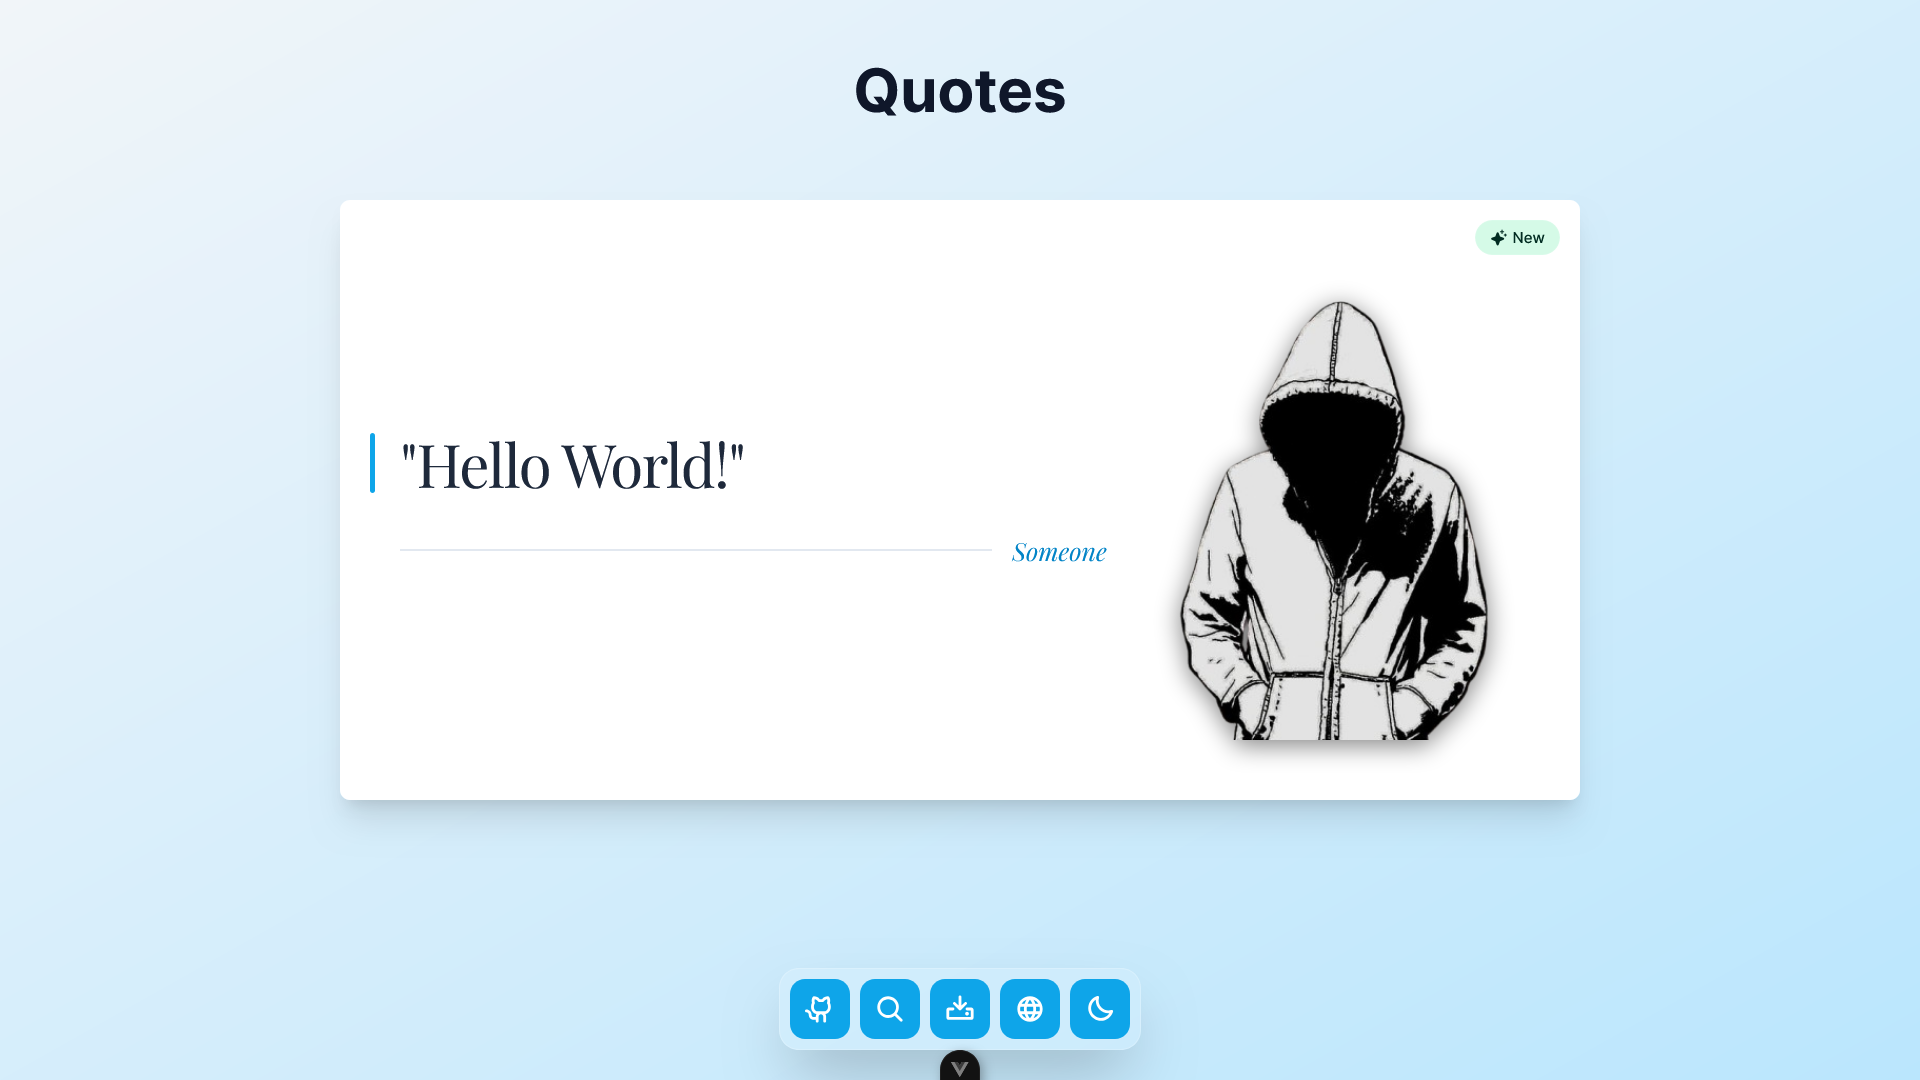
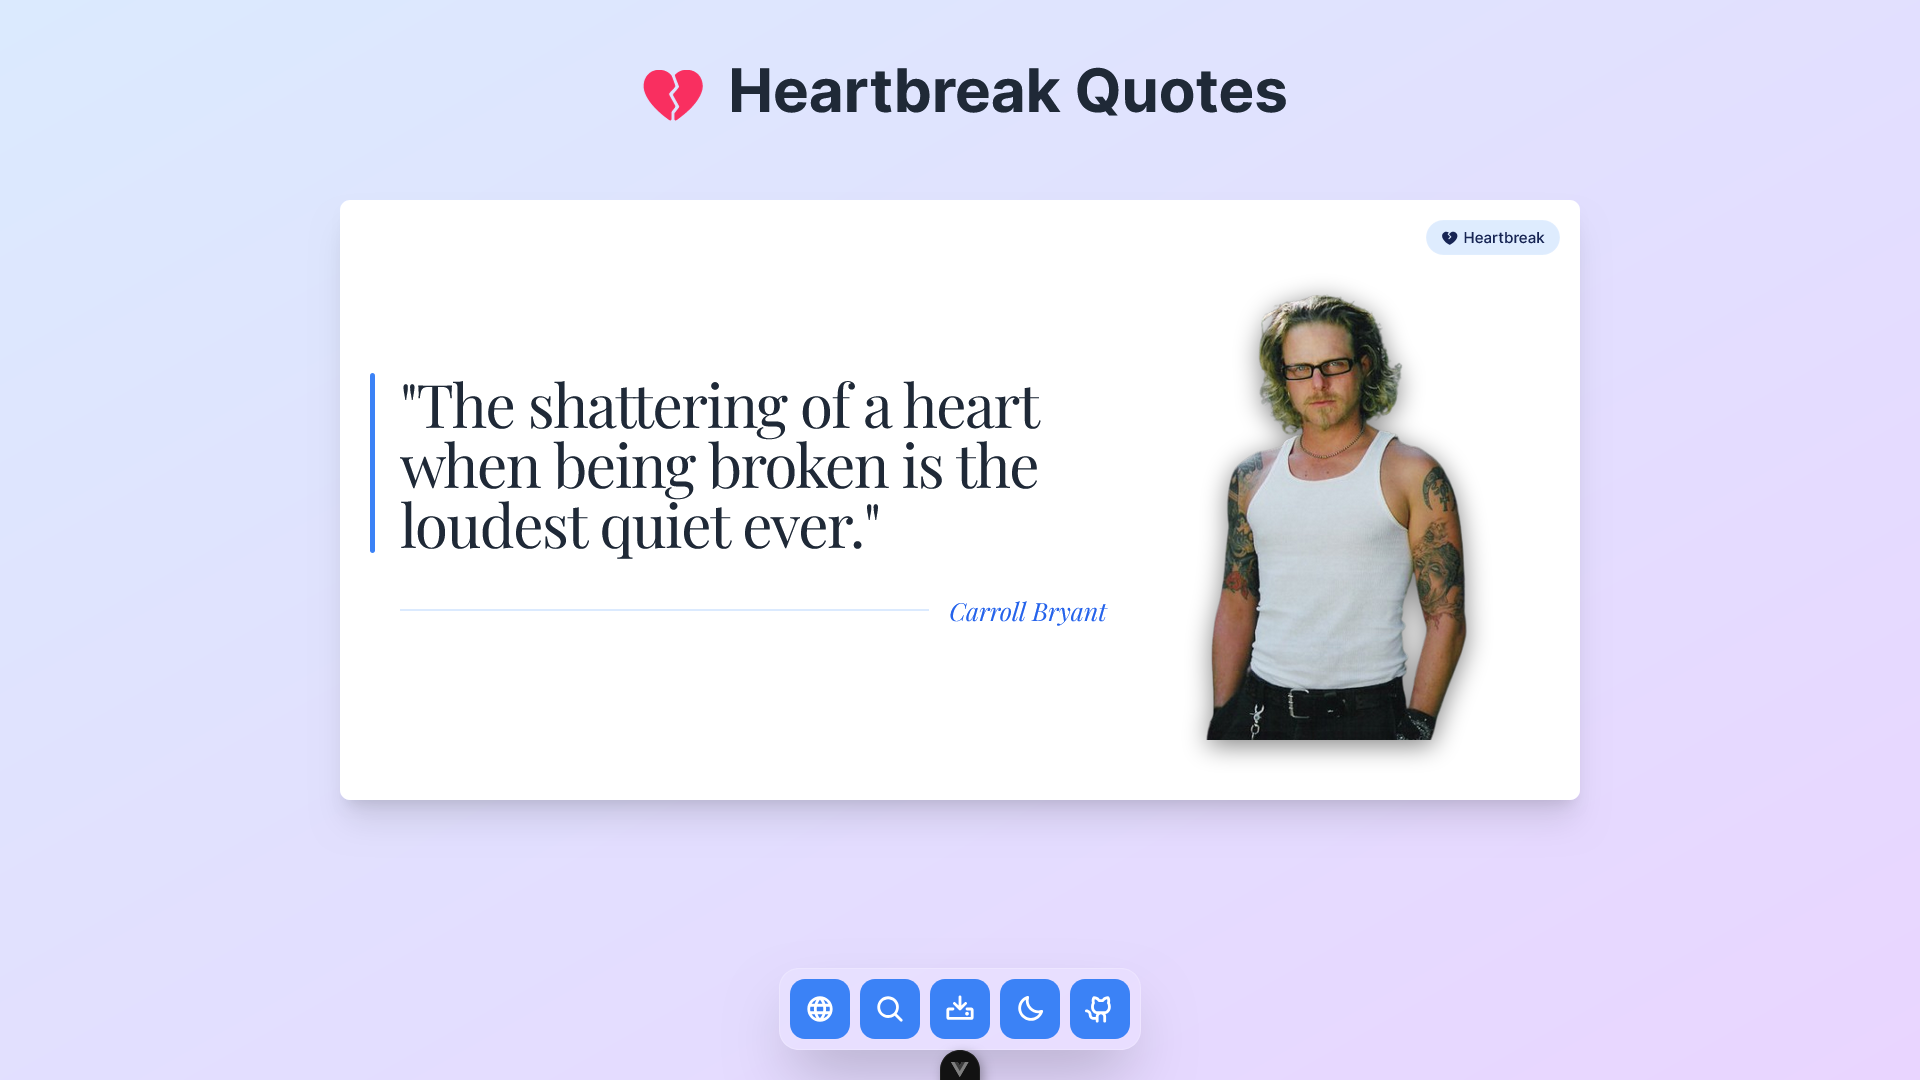
feat: heartbreak

diff --git a/src/data/data.ts b/src/data/data.ts
@@ -4,30 +4,55 @@ import {GeneralsSchema} from "../types/generals-schema.ts";
 import {ButtonsSchema} from "../types/buttons-schema.ts";
 import {ThemeSchema} from "../types/theme-schema.ts";
 import BadgeSchema from "../types/badge-schema.ts";
-import {PhSparkle} from "@phosphor-icons/vue";
+import {PhHeartBreak} from "@phosphor-icons/vue";
 import {SearchSchema} from "../types/search-schema.ts";
 import LanguageSchema from "../types/language-schema.ts";
 
 // ---------------------------- 🎯 GENERALS 🎯 ---------------------------- //
 export const generals: GeneralsSchema = {
-    title: 'Quotes',
-    randomPhrases: false,
+    title: [
+        {languageId: 'en', message: '💔 Heartbreak Quotes'},
+        {languageId: 'es', message: '💘 Frases de Desamor'}
+    ],
+    randomPhrases: true,
     internationalizationEnabled: true,
 };
 
 // ---------------------------- 📝 METADATA 📝 ---------------------------- //
-export const metadata: MetadataSchema = {};
+export const metadata: MetadataSchema = {
+    title: [
+        {languageId: 'en', message: '💔 Heartbreak Quotes'},
+        {languageId: 'es', message: '💘 Frases de Desamor'}
+    ],
+    author: 'EduardoProfe666 🎩',
+    description: [
+        {languageId: 'en', message: 'Some beautiful heartbreak quotes'},
+        {languageId: 'es', message: 'Algunas frases de desamor hermosas'}
+    ],
+    url: 'https://heartbreak-vue-quotes.onrender.com',
+    language: [
+        {languageId: 'en', message: 'en'},
+        {languageId: 'es', message: 'es'},
+    ],
+    locale: [
+        {languageId: 'en', message: 'en_US'},
+        {languageId: 'es', message: 'es_ES'},
+    ]
+};
 
 // ---------------------------- 🏷 BADGES 🏷 ---------------------------- //
 export const badges: BadgeSchema[] = [
     {
-        id: 'new',
-        name: 'New',
-        icon: PhSparkle,
-        background: 'bg-emerald-100/90 hover:bg-emerald-200/95',
-        backgroundDark: 'bg-emerald-500/20 hover:bg-emerald-500/30',
-        text: 'text-emerald-950',
-        textDark: 'text-emerald-300'
+        id: 'heartbreak',
+        name: [
+            { languageId: 'en', message: 'Heartbreak' },
+            { languageId: 'es', message: 'Desamor' }
+        ],
+        icon: PhHeartBreak,
+        background: 'bg-blue-100/90 hover:bg-blue-200/95 transition duration-300 ease-in-out',
+        backgroundDark: 'bg-blue-500/20 hover:bg-blue-500/30 transition duration-300 ease-in-out',
+        text: 'text-blue-950',
+        textDark: 'text-blue-300'
     }
 ];
 
@@ -35,18 +60,99 @@ export const badges: BadgeSchema[] = [
 export const phrases: PhraseSchema[] = [
     {
         message: [
-            {languageId: 'en', message: 'Hello World!'},
-            {languageId: 'es', message: 'Hola Mundo!'}
+            {languageId: 'en', message: 'Every time your heart is broken, a doorway cracks open to a world full of new beginnings, new opportunities.'},
+            {languageId: 'es', message: 'Cada vez que tu corazón se rompe, una puerta se abre a un mundo lleno de nuevos comienzos y nuevas oportunidades.'}
         ],
-        footer: 'Someone',
-        badgeId: 'new'
+        footer: 'Patti Roberts',
+        badgeId: 'heartbreak',
+        image: '/authors/pr.png',
     },
-    {message: 'vue-quotes rocks 🤘', footer: 'An awesome guy'},
+    {
+        message: [
+            {languageId: 'en', message: 'Hearts will never be practical until they are made unbreakable.'},
+            {languageId: 'es', message: 'Los corazones nunca serán prácticos hasta que sean hechos irrompibles.'}
+        ],
+        footer: 'The Tinman, The Wizard of Oz',
+        badgeId: 'heartbreak',
+        image: '/authors/tinman.png',
+    },
+    {
+        message: [
+            {languageId: 'en', message: 'Don\'t cry when the sun is gone, because the tears won\'t let you see the stars.'},
+            {languageId: 'es', message: 'No llores cuando el sol se haya ido, porque las lágrimas no te dejarán ver las estrellas.'}
+        ],
+        footer: 'Violeta Parra',
+        badgeId: 'heartbreak',
+        image: '/authors/violeta-parra.png',
+    },
+    {
+        message: [
+            {languageId: 'en', message: 'That though the heart is breaking, happiness can exist in a moment, also. And because the moment in which we live is all the time there really is, we can keep going.'},
+            {languageId: 'es', message: 'Que aunque el corazón esté roto, la felicidad también puede existir en un momento. Y dado que el momento en el que vivimos es todo el tiempo que realmente hay, podemos seguir adelante.'}
+        ],
+        footer: 'Zora Neale Hurston',
+        badgeId: 'heartbreak',
+        image: '/authors/zora.png',
+    },
+    {
+        message: [
+            {languageId: 'en', message: 'The shattering of a heart when being broken is the loudest quiet ever.'},
+            {languageId: 'es', message: 'El quiebre de un corazón al romperse es el silencio más ruidoso que existe.'}
+        ],
+        footer: 'Carroll Bryant',
+        badgeId: 'heartbreak',
+        image: '/authors/cb.png',
+    },
 ];
 
 // ---------------------------- 🔘 BUTTONS 🔘 ---------------------------- //
 export const buttons: ButtonsSchema = {
     socialEnabled: true,
+    exportActiveText: [
+        {languageId: 'en', message: 'Exporting...'},
+        {languageId: 'es', message: 'Exportando...'}
+    ],
+    exportSuccessNotification: [
+        {languageId: 'en', message: 'Successfully Exported Phrase'},
+        {languageId: 'es', message: 'Frase exportada con éxito'}
+    ],
+    exportFailedNotification: [
+        {languageId: 'en', message: 'Export Failed. Try later'},
+        {languageId: 'es', message: 'Exportación fallida. Intente más tarde'}
+    ],
+    lightModeTooltipText: [
+        {languageId: 'en', message: 'Change to Dark Mode'},
+        {languageId: 'es', message: 'Cambiar a Modo Oscuro'}
+    ],
+    darkModeTooltipText: [
+        {languageId: 'en', message: 'Change to Light Mode'},
+        {languageId: 'es', message: 'Cambiar a Modo Claro'}
+    ],
+    exportText: [
+        {languageId: 'en', message: 'Export Image'},
+        {languageId: 'es', message: 'Exportado a Imagen'},
+    ],
+    nextText: [
+        {languageId: 'en', message: 'Next Quote'},
+        {languageId: 'es', message: 'Siguiente Frase'},
+    ],
+    previousText: [
+        {languageId: 'en', message: 'Previous Quote'},
+        {languageId: 'es', message: 'Anterior Frase'},
+    ],
+    languageText: [
+        {languageId: 'en', message: 'Select Language'},
+        {languageId: 'es', message: 'Seleccionar Lenguaje'},
+    ],
+    searchText: [
+        {languageId: 'en', message: 'Search Quotes'},
+        {languageId: 'es', message: 'Buscar Frases'},
+    ],
+    socialText: [
+        {languageId: 'en', message: 'My Portfolio'},
+        {languageId: 'es', message: 'Mi Portfolio'},
+    ],
+    socialLink: 'https://eduardoprofe666.github.io'
 };
 
 // ---------------------------- 🌐 LANGUAGES 🌐 ---------------------------- //
@@ -58,34 +164,42 @@ export const languages: LanguageSchema[] = [
 // ---------------------------- 🔍 SEARCH 🔍 ---------------------------- //
 export const search: SearchSchema = {
     enabled: true,
+    placeholder: [
+        { languageId: 'en', message: 'Search quotes, authors, or badges...' },
+        { languageId: 'es', message: 'Buscar frases, autores o insignias...' }
+    ],
+    noResultsText: [
+        { languageId: 'en', message: 'No results found' },
+        { languageId: 'es', message: 'No se encontraron resultados' }
+    ]
 };
 
 // ---------------------------- 🎨 THEMES 🎨 ---------------------------- //
 export const themes: ThemeSchema = {
     light: {
         main: {
-            background: 'bg-gradient-to-br from-slate-100 to-sky-200',
-            text: 'text-slate-900 text-5xl font-bold',
+            background: 'bg-gradient-to-br from-blue-100 to-purple-200',
+            text: 'text-gray-800 text-5xl font-bold',
         },
         button: {
-            background: 'bg-sky-500 hover:bg-sky-600',
+            background: 'bg-blue-500 hover:bg-blue-600',
             text: 'text-white hover:text-white/90',
             icon: 'text-white hover:text-white/90',
-            navIcon: 'text-slate-800 hover:text-slate-800/90',
+            navIcon: 'text-gray-800 hover:text-gray-800/90',
         },
         card: {
             background: 'bg-white shadow-lg rounded-lg',
-            text: 'text-slate-800',
-            footer: 'text-sky-600',
-            decorationFooter: 'bg-slate-200',
-            decorationText: 'bg-sky-500 hover:bg-sky-600',
+            text: 'text-gray-800',
+            footer: 'text-blue-600',
+            decorationFooter: 'bg-blue-100',
+            decorationText: 'bg-blue-500 hover:bg-blue-600',
         },
         search: {
             modalBackground: 'bg-white',
             inputBackground: 'bg-white',
             inputText: 'text-gray-900',
             inputPlaceholder: 'text-gray-500',
-            inputBorder: 'border-gray-200',
+            inputBorder: 'border-gray-300',
             closeButton: 'text-gray-500',
             closeButtonHover: 'hover:bg-gray-100 hover:text-gray-700',
             resultHover: 'hover:bg-gray-50',
@@ -94,49 +208,51 @@ export const themes: ThemeSchema = {
         },
         internationalization: {
             modalBackground: 'bg-white',
-            itemBackground: 'hover:bg-sky-100',
+            itemBackground: 'hover:bg-blue-100',
             itemText: '',
-            selectedText: 'font-semibold text-sky-600',
-            selectedBackground: 'bg-sky-200',
+            selectedText: 'font-semibold text-blue-600',
+            selectedBackground: 'bg-blue-200',
         }
     },
     dark: {
         main: {
-            background: 'bg-gradient-to-br from-slate-900 to-slate-800',
-            text: 'text-sky-300 text-5xl font-bold',
+            background: 'bg-gradient-to-br from-gray-900 to-gray-800',
+            text: 'text-purple-300 text-5xl font-bold',
         },
         button: {
-            background: 'bg-sky-500 hover:bg-sky-600',
+            background: 'bg-blue-600 hover:bg-blue-700',
             text: 'text-white hover:text-white/90',
             icon: 'text-white hover:text-white/90',
             navIcon: 'text-white hover:text-white/90',
         },
         card: {
-            background: 'bg-slate-800/90 rounded-lg shadow-lg',
+            background: 'bg-gray-800 rounded-lg shadow-lg',
             text: 'text-gray-200',
-            footer: 'text-sky-400',
-            decorationFooter: 'bg-white/10',
-            decorationText: 'bg-sky-500 hover:bg-sky-600',
+            footer: 'text-purple-400',
+            decorationFooter: 'bg-black/10',
+            decorationText: 'bg-blue-600 hover:bg-blue-700',
         },
         search: {
-            modalBackground: 'bg-slate-800',
-            inputBackground: 'bg-slate-800',
+            modalBackground: 'bg-gray-900',
+            inputBackground: 'bg-gray-900',
             inputText: 'text-white',
             inputPlaceholder: 'text-gray-400',
             inputBorder: 'border-gray-700',
             closeButton: 'text-gray-400',
             closeButtonHover: 'hover:bg-gray-700 hover:text-gray-200',
-            resultHover: 'hover:bg-slate-700/50',
+            resultHover: 'hover:bg-gray-700/50',
             resultText: 'text-white',
             resultSubtext: 'text-gray-400'
         },
         internationalization: {
-            modalBackground: 'bg-slate-800',
-            itemBackground: 'hover:bg-sky-700',
-            itemText: 'text-sky-300',
-            selectedText: 'font-semibold text-sky-300',
-            selectedBackground: 'bg-sky-800',
+            modalBackground: 'bg-gray-900',
+            itemBackground: 'hover:bg-blue-700',
+            itemText: 'text-purple-300',
+            selectedText: 'font-semibold text-purple-300',
+            selectedBackground: 'bg-blue-800',
         }
     }
 }
+
+
 

diff --git a/index.html b/index.html
@@ -5,7 +5,14 @@
     <link rel="icon" href="/favicon.ico">
     <meta name="viewport" content="width=device-width, initial-scale=1.0"/>
     <meta property="og:type" content="website">
-    <title>Quotes</title>
+    <title>💔 Heartbreak Quotes</title>
+    <meta name="description" content="Some beautiful heartbreak quotes">
+    <meta property="og:title" content="💔 Heartbreak Quotes">
+    <meta property="og:description" content="Some beautiful heartbreak quotes">
+    <meta property="og:image" content="https://raw.githubusercontent.com/EduardoProfe666/vue-quotes/refs/heads/heartbreak/public/banner.png">
+    <meta property="og:url" content="https://heartbreak-vue-quotes.onrender.com">
+    <meta property="og:site_name" content="💔 Heartbreak Quotes">
+    <meta property="og:locale" content="en_US">
 </head>
 <body>
 <div id="app"></div>
